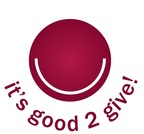
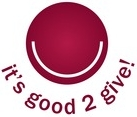
Added Safari support, added better positioning

diff --git a/css/main.css b/css/main.css
@@ -389,7 +389,7 @@ a.normal-link:hover {
 #programme-icon {
     top: 100px;
     left: 80px;
-    border-radius: 30px;
+    border-radius: 15px;
     border: 5px solid maroon;
     display:none;
     background-image: -webkit-radial-gradient(center, circle farthest-corner, #FFFFFF 50%, #800000 100%);
@@ -426,12 +426,13 @@ a.normal-link:hover {
     right: 80px;
     background-color: white;
     border: 5px solid #551033;
-    border-radius: 30px;
+    border-radius: 15px;
     display:none;
 }
 
 #charity-icon img {
-    margin-left: 5px;
+    margin-left: 6px;
+    margin-top: 15px;
 }
 
 #charity-icon-text {
@@ -451,7 +452,10 @@ a.normal-link:hover {
     top: 400px;
     left: 80px;
     display:none;
-    border-radius: 30px;
+    border-radius: 15px;
+    overflow: hidden;
+    /* this hack fixes the overflow:hidden problem in Safari */
[1 lines of base64/hex data omitted]
 }
 
 #chariot-icon-text {
@@ -471,7 +475,11 @@ a.normal-link:hover {
     top: 400px;
     right: 80px;
     display:none;
-    border-radius: 30px;
+    border-radius: 15px;
+    overflow: hidden;
+    /* this hack fixes the overflow:hidden problem in Safari */
[1 lines of base64/hex data omitted]
+
 }
 
 #past-events-icon-text {

diff --git a/index.html b/index.html
@@ -228,7 +228,11 @@
                     $("#map-placeholder").html('<iframe width="425" height="350" frameborder="0" scrolling="no" marginheight="0" marginwidth="0" src="https://maps.google.com.my/maps/ms?msa=0&amp;msid=212006361685481703685.0004d80c0214696d4bf45&amp;ie=UTF8&amp;t=m&amp;z=16&amp;output=embed"></iframe><br /><small>View <a href="https://maps.google.com.my/maps/ms?msa=0&amp;msid=212006361685481703685.0004d80c0214696d4bf45&amp;ie=UTF8&amp;t=m&amp;z=16&amp;source=embed" style="color:#0000FF;text-align:left">Mahavir Jayanti 2013 Chariot Route</a> in a larger map</small>');
                 });
 
-                $("#circle").css("left", widthOffset - 683/2).fadeIn(1500, function() {
+                $("#warped").css("top", heightOffset-683/2 + 40);
+                $("#circle")
+                .css("left", widthOffset - 683/2)
+                .css("top", heightOffset - 683/2)
+                .fadeIn(1500, function() {
 
                     $("#pulsating-mahavir")
                     .css("left", widthOffset - $("#pulsating-mahavir").width()/2)
